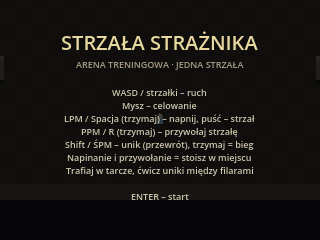
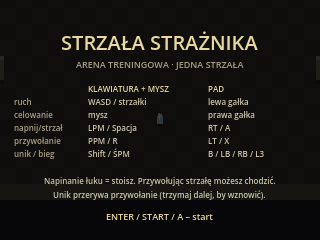
Ruch podczas przywołania strzały, sterowanie padem, propozycje stylu postaci

diff --git a/art/proposals/make.py b/art/proposals/make.py
@@ -1,0 +1,113 @@
+# Generator propozycji sprite'ów (idle, przód). python3 make.py
+from PIL import Image, ImageDraw, ImageFont
+FONT = ImageFont.truetype('/usr/share/fonts/truetype/dejavu/DejaVuSans.ttf', 11)
+S = {
+"a_titan_chunky": ("Krępy 16-bit (Titan Souls)", {'k':'1a1620','s':'e8b48a','h':'6a3a2a','t':'8a2f3a','T':'5e1f2a','p':'3a3040','b':'2a2228','w':'c8b070'}, [
+"......kkkk......",
+".....khhhhk.....",
+"....khhhhhhk....",
+"....khsssshk....",
+"....kskssksk....",
+"....ksssssk.....",
+"...kTtttttTk....",
+"..ksTtwttttTsk..",
+"..ksTttwtttTsk..",
+"...kTtttwttTk...",
+"....kpppppk.....",
+"....kppkppk.....",
+"....kbbkbbk.....",
+"....kkk.kkk....."]),
+"b_zelda_thin": ("Smukły jak Zelda LttP", {'k':'20202a','s':'f0c8a0','h':'d8a040','g':'3a8a3a','G':'25602a','p':'c8a878','b':'6a4020','w':'e0e0e0'}, [
+".......kk.......",
+"......kggk......",
+".....kgggGk.....",
+"....khhhhhk.....",
+"....kskssk......",
+"....kssssk......",
+".....kGgGk......",
+"....kgGgGgk.....",
+"....ksgGgsk.....",
+".....kbbbk......",
+".....kppk.......",
+".....kp.kp......",
+".....kb.kb......",
+".....kk.kk......"]),
+"c_dark_silhouette": ("Mroczna sylwetka", {'k':'0a0a0e','d':'1c1c26','e':'ffd65a','r':'7a2a2a'}, [
+".......kk.......",
+"......kddk......",
+".....kddddk.....",
+".....kdeedk.....",
+".....kddddk.....",
+"....kddddddk....",
+"...kddddddddk...",
+"...kddrddddk....",
+"...kdddddddk....",
+"....kddddddk....",
+"....kdddddk.....",
+"....kdk.kdk.....",
+"....kdk.kdk.....",
+"....kk..kk......"]),
+"d_chibi": ("Słodki chibi", {'k':'2a2030','s':'ffd8c0','h':'a06040','c':'ff9aa8','t':'7ab8e8','p':'4a5a8a','w':'ffffff'}, [
+"....kkkkkkk.....",
+"...khhhhhhhk....",
+"..khhhhhhhhhk...",
+"..khsssssssh k..".replace(' ','.'),
+"..ksswksswssk...",
+"..kssksskssk....",
+"..kcsssssscsk...",
+"...ksssssssk....",
+"....kttttttk....",
+"...ksttttttsk...",
+"....kppppk......",
+"....kk..kk......"]),
+"e_armored_knight": ("Rycerz w zbroi", {'k':'14161c','m':'a8b0bc','M':'6a7280','v':'2a2e38','r':'b03a3a','b':'4a3a2a','g':'d8b040'}, [
+"......krrk......",
+".....kmmmmk.....",
+"....kmmmmmmk....",
+"....kMvvvvMk....",
+"....kmmmmmmk....",
+"...kMmmmmmmMk...",
+"..kmMmmgmmmMmk..",
+"..kmMmmmmmmMmk..",
+"...kMmmmmmmMk...",
+"....kbbgbbbk....",
+"....kMMkMMk.....",
+"....kmmkmmk.....",
+"....kMMkMMk.....",
+"....kkk.kkk....."]),
+"f_hooded_archer": ("Łucznik w kapturze", {'k':'161a14','c':'4a5a3a','C':'2e3a24','s':'d8a880','e':'f0f0d0','q':'8a5a30','w':'c8a060','b':'3a2a1a'}, [
+".......kk.......",
+"......kcck......",
+".....kccCck.....",
+"....kcCssCck....",
+"....kcseseck....",
+"....kCsssCk.....",
+"...kcccccccqk...",
+"..kcCcccccCcqk..",
+"..ksCccwccCsqk..",
+"...kCcccccCkq...",
+"....kbbbbbk.....",
+"....kbbkbbk.....",
+"....kbbkbbk.....",
+"....kkk.kkk....."]),
+}
+SC = 8
+tiles = []
+for key, (name, pal, rows) in S.items():
+    w = 16; h = len(rows)
+    im = Image.new('RGBA', (w, 20), (0, 0, 0, 0))
+    for y, r in enumerate(rows):
+        for x, ch in enumerate(r[:16]):
+            if ch in pal: im.putpixel((x, y + (20 - h)), tuple(int(pal[ch][i:i+2], 16) for i in (0, 2, 4)) + (255,))
+    im.save(f'{key}.png')
+    big = Image.new('RGB', (w * SC, 20 * SC), (47, 45, 41)); big.paste(im.resize((w * SC, 20 * SC), Image.NEAREST), (0, 0), im.resize((w * SC, 20 * SC), Image.NEAREST))
+    big.save(f'{key}_x8.png'); tiles.append((key, name, big, im))
+cw, ch = 16 * SC + 40, 20 * SC + 60
+sheet = Image.new('RGB', (cw * 3, ch * 2), (27, 26, 32)); d = ImageDraw.Draw(sheet)
+for i, (key, name, big, im) in enumerate(tiles):
+    x, y = (i % 3) * cw + 20, (i // 3) * ch + 14
+    sheet.paste(big, (x, y))
+    sheet.paste(im, (x + big.width - 16, y + big.height + 6), im)  # rozmiar 1:1
+    d.text((x, y + big.height + 6), f"{key[0].upper()}: {name}", fill=(232, 217, 160), font=FONT)
+    d.text((x, y + big.height + 22), "(obok 1:1)", fill=(125, 117, 99), font=FONT)
+sheet.save('compare.png')

diff --git a/README.md b/README.md
@@ -1,10 +1,20 @@
 # Strzała Strażnika — arena treningowa (Godot 4.7)
 Uruchom: `godot --path .`. Boss jest odłożony (legacy/boss_mvp.gd).
 
-Sterowanie: WASD/strzałki ruch · mysz celowanie · LPM/Spacja trzymaj = napnij, puść = strzał · PPM/R trzymaj = przywołanie (stoisz) · Shift/ŚPM wciśnij = unik (przewrót), trzymaj = bieg · Enter start.
+## Sterowanie
+| akcja | klawiatura + mysz | pad (Xbox / PlayStation) |
+|---|---|---|
+| ruch | WASD / strzałki | lewa gałka (analogowo, martwa strefa 0,22) |
+| celowanie | mysz | prawa gałka (martwa strefa 0,35; puszczona = ostatni kierunek) |
+| napnij (trzymaj) / strzał (puść) | LPM / Spacja | RT / A (×) |
+| przywołanie (trzymaj) | PPM / R (też LPM/Spacja, gdy strzała leży) | LT / X (□) (też RT/A) |
+| unik (wciśnij) / bieg (trzymaj) | Shift / ŚPM | B (○) / LB / RB / L3 |
+| start | Enter | Start / A |
+
+Zasady: **napinanie łuku = stoisz w miejscu**. **Przywołując strzałę możesz chodzić, biegać i strzelać w bok**. Unik jest zablokowany tylko przy napinaniu; unik w trakcie przywołania je przerywa (trzymaj dalej przycisk, by wznowić po przewrocie). Ruch myszą przełącza celowanie z powrotem na mysz. Propozycje postaci: docs/sprite-styles.md.
 
 ## Ruch (finalne wartości)
-chód 62 px/s · bieg 96 px/s · przyspieszenie 900 px/s² (~67 ms do pełnej) · hamowanie 950 px/s² (~67 ms, 1,5 px) · zawrotka ×2 przyspieszenia (~100 ms) · przewrót 200 px/s × 0,22 s ≈ 47 px · odnowienie 0,45 s (≈3 przewroty / 2 s) · nietykalność 0,04–0,14 s przewrotu · bufor uniku 0,12 s · odbicie od ściany/filaru 0,25 s bezbronności · napinanie zatrzymuje w ~33 ms · brak uniku podczas napinania/przywołania.
+chód 62 px/s · bieg 96 px/s · przyspieszenie 900 px/s² (~67 ms do pełnej) · hamowanie 950 px/s² (~67 ms, 1,5 px) · zawrotka ×2 przyspieszenia (~100 ms) · przewrót 200 px/s × 0,22 s ≈ 47 px · odnowienie 0,45 s (≈3 przewroty / 2 s) · nietykalność 0,04–0,14 s przewrotu · bufor uniku 0,12 s · odbicie od ściany/filaru 0,25 s bezbronności · napinanie zatrzymuje w ~33 ms · brak uniku podczas napinania · pełny ruch podczas przywołania.
 ## Kamera
 wygładzanie wykładnicze 8/s · martwa strefa 6 px · wyprzedzenie: 14 px w stronę celu + ruch·0,18 s · napinanie: przybliżenie do 1,25× i przesunięcie do 30 px w stronę celu · strzała poza kołczanem: kadr między graczem a strzałą, oddalenie do 0,75× · powrót do 1,0× po złapaniu · wstrząsy przy strzale/wbiciu/trafieniu/odbiciu · ograniczenie do areny.
 ## Strzała

diff --git a/docs/sprite-styles.md b/docs/sprite-styles.md
@@ -1,0 +1,11 @@
+# Propozycje stylu postaci (do wyboru)
+Podgląd zbiorczy: `art/proposals/compare.png`. Każdy styl: `<nazwa>.png` (16×20 px, 1:1) i `<nazwa>_x8.png` (powiększenie). Generator: `art/proposals/make.py`. Gra nadal używa starego prostokąta — podmienię po wyborze i dorobię animacje (chód 4 kl., przewrót, napinanie, 8 kierunków).
+
+- **A – Krępy 16-bit** (`a_titan_chunky`) — najbliżej Titan Souls: duża głowa, ciepłe kolory, czytelny na każdym tle.
+- **B – Smukły jak Zelda LttP** (`b_zelda_thin`) — zielona tunika i czapka, klasyczna przygoda, lżejszy.
+- **C – Mroczna sylwetka** (`c_dark_silhouette`) — prawie czarny, świecące oczy; klimat Dark Souls, ale trudniej go dostrzec na ciemnej arenie (trzeba by dodać obrys).
+- **D – Słodki chibi** (`d_chibi`) — ogromna głowa, rumieńce; kontrast „mały i słodki kontra tytan”.
+- **E – Rycerz w zbroi** (`e_armored_knight`) — stal i czerwony pióropusz; ciężki wygląd (kłóci się trochę z szybkim przewrotem).
+- **F – Łucznik w kapturze** (`f_hooded_archer`) — zielony płaszcz, kołczan na plecach; najbardziej „łucznik” i pasuje do gry o jednej strzale.
+
+Moja rekomendacja: **A** albo **F**.
